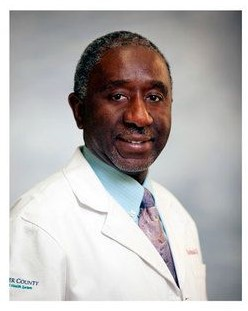
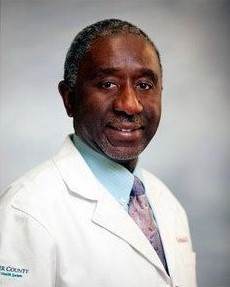
more resp

Changed region(s): [[0.0, 0.0, 1.0, 1.0], [0.8217, 0.0836, 0.8826, 0.1115]]

diff --git a/docs/index.html b/docs/index.html
@@ -669,66 +669,66 @@
                         <div class="doctors-carousel">
                             <div class="doctor-list">
                                 <div class="doctor-card">
-                                    <div class="doctor-image text-center">
-                                        <img src="./images/doctors_face/d1.jpg" alt="1" class="responsive">
+                                    <div class="text-center">
+                                        <img src="./images/doctors_face/d1.jpg" alt="1" class="responsive doctor-image ">
                                     </div>
                                     <div class="doctor-text">
                                         <h4 class="text-center">Name Name</h4>
-                                        <p class="text-center text-muted thin">Doctor</p>
+                                        <p class="text-center small-text thin">Doctor</p>
                                     </div>
                                 </div>
                                 <div class="doctor-card">
-                                    <div class="doctor-image text-center">
-                                        <img src="./images/doctors_face/d2.jpg" alt="1" class="responsive">
+                                    <div class="text-center">
+                                        <img src="./images/doctors_face/d2.jpg" alt="1" class="responsive doctor-image ">
                                     </div>
                                     <div class="doctor-text">
                                         <h4 class="text-center">Name Name</h4>
-                                        <p class="text-center text-muted thin">Doctor</p>
+                                        <p class="text-center small-text thin">Doctor</p>
                                     </div>
                                 </div>
                                 <div class="doctor-card">
-                                    <div class="doctor-image text-center">
-                                        <img src="./images/doctors_face/d3.jpg" alt="1" class="responsive">
+                                    <div class="text-center">
+                                        <img src="./images/doctors_face/d3.jpg" alt="1" class="responsive doctor-image ">
                                     </div>
                                     <div class="doctor-text">
                                         <h4 class="text-center">Name Name</h4>
-                                        <p class="text-center text-muted thin">Doctor</p>
+                                        <p class="text-center small-text thin">Doctor</p>
                                     </div>
                                 </div>
                                 <div class="doctor-card">
-                                    <div class="doctor-image text-center">
-                                        <img src="./images/doctors_face/d4.jpg" alt="1" class="responsive">
+                                    <div class="text-center">
+                                        <img src="./images/doctors_face/d4.jpg" alt="1" class="responsive doctor-image ">
                                     </div>
                                     <div class="doctor-text">
                                         <h4 class="text-center">Name Name</h4>
-                                        <p class="text-center text-muted thin">Doctor</p>
+                                        <p class="text-center small-text thin">Doctor</p>
                                     </div>
                                 </div>
                                 <div class="doctor-card">
-                                    <div class="doctor-image text-center">
-                                        <img src="./images/doctors_face/d5.jpg" alt="1" class="responsive">
+                                    <div class="text-center">
+                                        <img src="./images/doctors_face/d5.jpg" alt="1" class="responsive doctor-image ">
                                     </div>
                                     <div class="doctor-text">
                                         <h4 class="text-center">Name Name</h4>
-                                        <p class="text-center text-muted thin">Doctor</p>
+                                        <p class="text-center small-text thin">Doctor</p>
                                     </div>
                                 </div>
                                 <div class="doctor-card">
-                                    <div class="doctor-image text-center">
-                                        <img src="./images/doctors_face/d6.jpg" alt="1" class="responsive">
+                                    <div class="text-center">
+                                        <img src="./images/doctors_face/d6.jpg" alt="1" class="responsive doctor-image ">
                                     </div>
                                     <div class="doctor-text">
                                         <h4 class="text-center">Name Name</h4>
-                                        <p class="text-center text-muted thin">Doctor</p>
+                                        <p class="text-center small-text thin">Doctor</p>
                                     </div>
                                 </div>
                                 <div class="doctor-card">
-                                    <div class="doctor-image text-center">
-                                        <img src="./images/doctors_face/d7.jpg" alt="1" class="responsive">
+                                    <div class="text-center">
+                                        <img src="./images/doctors_face/d7.jpg" alt="1" class="responsive doctor-image ">
                                     </div>
                                     <div class="doctor-text">
                                         <h4 class="text-center">Name Name</h4>
-                                        <p class="text-center text-muted thin">Doctor</p>
+                                        <p class="text-center small-text thin">Doctor</p>
                                     </div>
                                 </div>
                             </div>
@@ -947,13 +947,15 @@
                 speed: 300,
                 centerMode: true,
                 variableWidth: true,
+                lazyLoad: 'ondemand',
                 slidesToShow: slide1Count
             });
             $('.news-list').slick({
                 dots: true,
                 infinite: true,
                 centerMode: true,
-                slidesToShow: slide2Count 
+                lazyLoad: 'ondemand',
+                slidesToShow: slide2Count
             });
             $('.scroll').click(function (e) {
                 // e.preventDefault();
@@ -966,7 +968,7 @@
 
         scrollContainer.onscroll = function () {
             // console.log(scrollContainer.scrollTop);
-            if (scrollContainer.scrollTop > 1000) {
+            if (scrollContainer.scrollTop > 700) {
                 moveTop.classList.add("show");
             } else {
                 moveTop.classList.remove("show");

diff --git a/docs/css/style.css b/docs/css/style.css
@@ -64,6 +64,7 @@ section {
 }
 
 nav.navbar {
+  box-shadow: inset 0px 2rem 2rem -2rem rgba(20, 20, 20, 0.5);
   position: absolute;
   height: 10rem;
   color: #fff;
@@ -79,7 +80,7 @@ nav.navbar {
 }
 
 .nav-item {
-  padding: 0 1rem;
+  padding: 0 0.5rem;
 }
 
 .nav-link {
@@ -109,7 +110,7 @@ section.head {
   background-position: center;
   background-repeat: no-repeat;
   background-size: cover;
-  padding: 18rem 2rem 2rem;
+  padding: 15rem 2rem 2rem;
   color: #fff;
 }
 
@@ -174,7 +175,7 @@ section.head {
 }
 
 .card.head-card {
-  background-color: #ffffffef;
+  background-color: #ffffffcc;
   box-shadow: 0 0 3rem rgba(255, 255, 255, 1);
   border-radius: 1rem;
 }
@@ -200,7 +201,7 @@ p.dropdown-item {
 }
 
 .bg-grey {
-  background-color: #d6d6d646;
+  background-color: #d6d6d6d6;
 }
 
 /* section.head > .container {
@@ -266,7 +267,7 @@ section.about {
 }
 
 .about-item > .tick {
-  margin-top: .3rem;
+  margin-top: 0.3rem;
   text-align: center;
   background-color: rgba(211, 155, 216, 0.14);
   width: 2rem;
@@ -298,11 +299,6 @@ section.mission {
   right: -1rem;
   border-radius: 50%;
   box-shadow: 0.3rem 0.3rem 1rem #8d51929c;
-}
-
-.responsive {
-  width: 100%;
-  height: auto;
 }
 
 .shadowed {
@@ -512,7 +508,7 @@ section.services {
 
 .testimonial-divider {
   margin: 0 -2px;
-  border: 1px solid #63636380;
+  border: 1px solid #6c757d4d;
   height: inherit;
   border-radius: 2px;
 }
@@ -537,13 +533,14 @@ section.contact {
   margin: 0;
 }
 
-.doctors-carousel {
-  padding: 4rem 0;
+.slick-track {
+  padding: 1rem 0 0.5rem 0;
 }
 
-/* .doctors-carousel .doctor-card {
-  height: 24rem;
-} */
+.doctors-carousel .doctor-card {
+  margin: 0 1rem;
+  box-shadow: 0 0 1rem #9a9a9a57;
+}
 
 .doctor-card > .doctor-text {
   /* background-color: #9f5ba46e; */
@@ -552,12 +549,18 @@ section.contact {
   width: 85%;
 }
 
+img.doctor-image {
+  width: auto;
+  height: 14rem;
+}
+
 .responsive {
   width: 100%;
   height: auto;
 }
 
-.news-carousel {
+.news-carousel,
+.doctors-carousel {
   padding: 4rem 0;
 }
 
@@ -578,6 +581,10 @@ section.news {
   margin: 1rem;
   box-shadow: 0 0 1rem #9a9a9a57;
 }
+
+/* .news-card > .news-image{
+  height: 14rem;
+} */
 
 .news-card > .news-text {
   margin: 0 0 0 0.5rem;
@@ -606,9 +613,8 @@ a i {
   background-position: 50% 50%;
   background-repeat: no-repeat;
   background-size: cover;
-  padding-top: 100px;
-  padding-bottom: 100px;
   background-image: url("../images/footer-bg.jpg");
+  padding: 1rem 0;
 }
 
 .footer-overlay {
@@ -669,7 +675,7 @@ a i {
 
 /* Media Queries */
 
-@media (max-width: 800px) {
+@media (max-width: 991px) {
   nav.navbar {
     padding: 1rem;
     display: block;
@@ -699,8 +705,18 @@ a i {
 
   .nav-section.show {
     display: block;
+    opacity: 1;
+    animation: fadeIn 1s linear;
   }
 
+  @keyframes fadeIn {
+    0% {
+      opacity: 0;
+    }
+    100% {
+      opacity: 1;
+    }
+  }
   .nav-section > .navs > .nav,
   .nav-section > .contact-links > .nav {
     display: block;
@@ -855,10 +871,13 @@ a i {
 
   .testimonial-divider {
     margin: 1.5rem;
-    border: 1px solid #80808080;
     height: 2px;
-    border-radius: 2px;
     width: 100%;
+  }
+
+  .news-carousel,
+  .doctors-carousel {
+    padding: 1rem 0;
   }
 }
 
